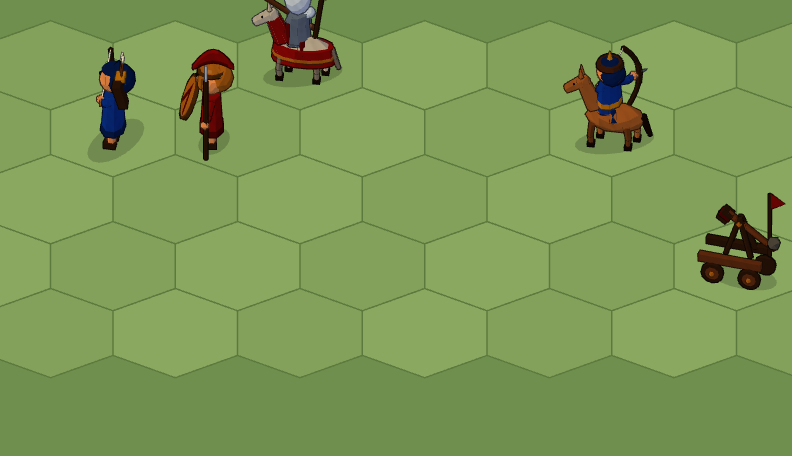
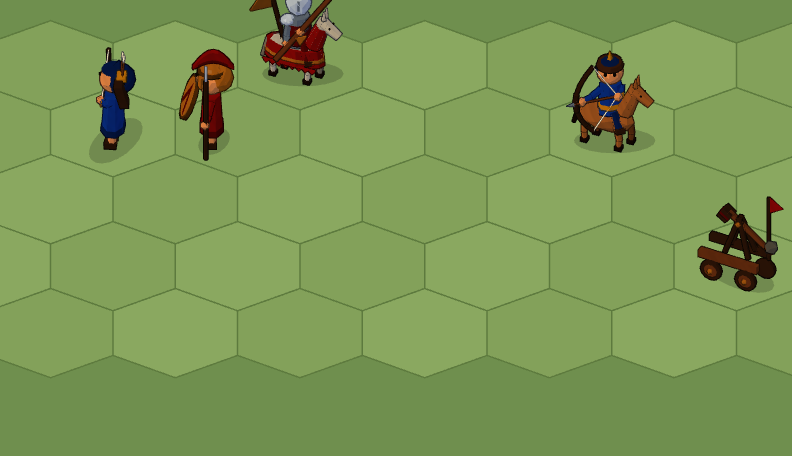
Docs: 3D facing review fixes, light before and after stills, clip regenerated

diff --git a/scripts/facing3d/sheet.ts b/scripts/facing3d/sheet.ts
@@ -178,10 +178,46 @@ function clip(scale = 2.4): Clip {
   };
 }
 
+/**
+ * The light on turned pieces, with the figures' normals in world space (as shipped) or in object space (as before
+ * facing): falls mid-tip, a trebuchet mid-swing, and the same trebuchet turned away mid-swing.
+ */
+function normals(world: boolean, scale = 3): void {
+  size({ w: Math.round(330 * scale), h: Math.round(110 * scale), scale, cx: 120, cy: -10 });
+  const g = ground.getContext('2d')!;
+  g.fillStyle = '#6f8f4e'; g.fillRect(0, 0, view.w, view.h);
+  for (const x of [0, 80, 160, 240]) hex(g, x, 0, '#8aa860', '#5d7a3e');
+  units.setUnits([
+    { id: 1, type: 'catapult', look: look('spartans'), hero: false, x: 160, y: 0, alpha: 1, hunkered: false },
+    { id: 2, type: 'catapult', look: look('spartans'), hero: false, x: 240, y: 0, alpha: 1, hunkered: false },
+  ], 0);
+  units.aim(2, 240, -60, 0);
+  units.tick(1000, 0);
+  units.pose(new Map([[1, { x: 160, y: 0, lunge: 0.2 }], [2, { x: 240, y: 0, lunge: 0.2 }]]), [
+    { key: 'a', type: 'hoplite', look: look('spartans'), x: 0, y: 0, angle: 0.9, alpha: 1 },
+    { key: 'b', type: 'knight', look: look('mongols'), x: 80, y: 0, angle: 0.6, alpha: 1 },
+  ]);
+  units.tick(1100, 0);
+  let changed = 0;
+  units.extras.parent?.traverse((o) => {
+    const m = (o as { material?: { defines?: Record<string, string>; needsUpdate: boolean } }).material;
+    if (m?.defines === undefined) return;
+    const has = 'WORLD_NORMAL' in m.defines;
+    if (has === world) return;
+    if (world) m.defines.WORLD_NORMAL = ''; else delete m.defines.WORLD_NORMAL;
+    m.needsUpdate = true;
+    changed++;
+  });
+  document.body.dataset.changed = String(changed);
+  label(world ? 'world normals (now)' : 'object normals (before)', 120, -50);
+  draw();
+}
+
 let current: Clip | null = null;
 Object.assign(window, {
   facingSheet: (rows: Row[], scale?: number) => sheet(rows, scale),
   facingClip: (scale?: number) => { current = clip(scale); return current.length; },
   facingFrame: (t: number) => current?.frame(t),
+  facingNormals: (world: boolean) => normals(world),
 });
 document.body.dataset.ready = '1';

diff --git a/scripts/facing3d-shots.ts b/scripts/facing3d-shots.ts
@@ -48,6 +48,13 @@ try {
   await page.evaluate((r) => (window as unknown as { facingSheet(rows: unknown[], s: number): void }).facingSheet(r, 1.3), all);
   await shoot('facing-all-types.png');
 
+  // The light on turned pieces, before and after the figures' normals went to world space.
+  for (const world of [false, true]) {
+    await page.evaluate((w) => (window as unknown as { facingNormals(w: boolean): void }).facingNormals(w), world);
+    await shoot(`normals-${world ? 'world' : 'object'}.png`);
+    console.log('materials switched', await page.evaluate(() => document.body.dataset.changed));
+  }
+
   // The clip, frame by frame at 25 frames a second.
   const frames = mkdtempSync(join(tmpdir(), 'facing3d-'));
   const length = await page.evaluate(() => (window as unknown as { facingClip(s: number): number }).facingClip(2.4));

diff --git a/docs/superpowers/plans/2026-11-24-facing3d-report.md b/docs/superpowers/plans/2026-11-24-facing3d-report.md
@@ -9,13 +9,22 @@ to that when hunkered, but when moving or attacking they should face the correct
   three-quarter view every figure is built in (unchanged from 0.5.3).
 - **Moves** (a slide, and also a lure or an advance, which move a unit the same way): turns to face the way it went,
   over 160 ms, during the 180 ms slide. The board slides a unit in one straight line from its old tile to its new
-  one, so a multi-step path gives one facing, along that line. It keeps the facing after it stops, and when it is
+  one, so a multi-step path gives one facing, along that line. Facing the last step instead is not possible on the
+  UI side: the move action is only a destination, the `moved` event carries only `from` and `to`, and the engine
+  exposes `reachable` but no path, so the route the unit took is not known. It keeps the facing after it stops, and when it is
   rebuilt dimmed because it is now spent.
-- **Attacks**: turns to face its target over 120 ms, timed to be round when its lunge starts (an attack later in a
-  chain waits for its own lunge), and keeps that facing. The unit attacked is not turned.
+- **Attacks**: turns to face its target over 120 ms, timed to be round when its lunge starts, and keeps that facing.
+  The unit attacked is not turned. A chain of attacks in one action faces each target in order: the turns are
+  queued, each starting when the one before is round (lunges 120 ms apart, so each later target is faced up to
+  120 ms after its lunge starts). The aim is taken from the tile the unit lunged from, so an attack followed by an
+  advance aims right (in this game an advance goes into the target's tile, so the slide and the lunge face the same
+  way anyway). A move or a hunker drops any aims still waiting.
 - **Hunkers**: turns back to the rest facing over 160 ms.
-- Nothing else changes a facing: selection, spent, a new turn, being attacked. A reload, or leaving the scene (fog)
-  and coming back, starts at rest again.
+- Nothing else changes a facing: selection, spent, a new turn, being attacked.
+- **Out of sight and back**: a unit that leaves the scene (fog) is remembered by id with its last facing and is shown
+  that way when seen again, even if it moved meanwhile (where it went is not known, so it is not turned for that: the
+  simpler choice). Units that die are forgotten (the action's falls carry their ids), and the memory goes with the
+  board (a reload, or the option toggled, starts every unit at rest).
 - **Falls**: a unit that dies falls the way it was facing (the fall figure picks up its last facing by look and tile).
 - **Reduced motion**: every turn is made at once.
 - Applies to every unit type, both factions, heroes and champions, and to the AI's and an online opponent's actions:
@@ -37,13 +46,16 @@ to that when hunkered, but when moving or attacking they should face the correct
     pennant is at the back), so that side leads and aims.
   - A facing is a yaw from the rest pose (0 at rest). A turn eases (smoothstep) from wherever the figure is to the
     new yaw the short way round; a turn can wait to start (the attack timing).
+- `facing.ts` also holds the queue: a facing is the turn under way plus turns waiting their time (`queueTurn`,
+  `settle`, `turnNow`).
 - `units3d.ts` keeps a facing per unit id (it survives a rebuild for a new look or dim), detects a move as a unit on
   a new point in `setUnits`, a hunker as `hunkered` going from false to true, and takes attacks through a new
-  `aim(id, x, y, now, lungeAt)`. `turning(now)` says whether frames must go on being drawn. Drawing turns the body
+  `aim(id, x, y, now, lungeAt, from)`; `forget(ids)` drops the remembered facing of units that died. `turning(now)` says whether frames must go on being drawn. Drawing turns the body
   group about the feet: body = tilt (in the screen plane, as before) x yaw (facing plus the trebuchet's idle aim).
 - `GlUnit` gains `hunkered` (and its key, so a hunker reaches `setUnits`; the figure is not rebuilt for it).
-- `Board.tsx` gains an optional `attacks` prop (`{ seq, list: { unit, toward, delay }[] }`); `Match.tsx` passes the
-  lunges of the action being shown. Board calls `aim` once per seq, after `setUnits`. Board's follow loop (the one
+- `Board.tsx` gains an optional `attacks` prop (`{ seq, list: { unit, from, toward, delay }[], fallen }`);
+  `Match.tsx` passes the lunges and the falls of the action being shown. The lunge and fall effects gained `from`
+  and `unit` (UI types only; the svg effects use neither). Board calls `aim` once per seq, after `setUnits`. Board's follow loop (the one
   that tracks slides and lunges) also runs while a figure is turning, so a hunker's turn, which has no svg animation,
   is drawn smoothly; it stops when the turn ends.
 
@@ -69,6 +81,13 @@ Two things had to follow the turn:
 The trebuchet's arm and stone are children of the body, so its swing and idle aim play in its new facing (tested
 and in the clip: it throws up the screen with its back to the viewer).
 
+### The light on falls, the trebuchet arm and idle tilt
+
+`normals-object.png` (object normals, as before) and `normals-world.png` (world normals, as now) show a hoplite and a
+knight mid-fall, the trebuchet mid-swing, and the trebuchet turned away mid-swing. A difference image of the two
+shows changes only along a few band edges: the toon light has three bands, so a tip of up to a radian moves a band
+edge here and there and nothing else. The idle tilt is a few hundredths of a radian, below what the bands show. Kept.
+
 ## Battery and performance
 
 - The ambient loop is unchanged (20 fps cap, rest after 20 s quiet, paused when covered or hidden, no double draws).
@@ -89,6 +108,7 @@ then on it, exactly as a move reaches `units3d`; the arrow shows the step.
   `facing-horseArcher.png`, `facing-trebuchet.png`, `facing-hero.png` (King's Guard with pennant),
   `facing-champion.png` (Khan's Guard): rest, then moves E, SE, SW, W, NW, NE.
 - `facing-all-types.png`: all 17 types, rest plus the six moves.
+- `normals-object.png`, `normals-world.png`: the light before and after (see above).
 - `facing-clip.gif` (real pace, 25 fps) and its stills `clip-0280ms.png` to `clip-4280ms.png`: a hoplite walks E,
   SE, NE, NW (its back to us), attacks the archer to its W (turns to a profile, lunges), then hunkers back to rest;
   the trebuchet turns up the screen and throws; the knight rides down toward the viewer.
@@ -101,12 +121,16 @@ board (status plates, real terrain) was not captured for this change.
 - `units/facing.test.ts`: headings (down, up, sideways, none); every type's move and aim fronts land along each of
   the six hex directions on screen; the six steps at 30, 90, 150 degrees; rest is no turn; fronts of the archer,
   horse archer, knight; wrap; eased turn with no snap within 120 to 200 ms; short way round both ways; a new turn
-  starts where the last one got to; a delayed turn; instant with no time.
+  starts where the last one got to; a delayed turn; instant with no time; queued turns run in order (and the short way),
+  a later aim waits for a turn under way, a turn now drops what waits, reduced motion still waits for each moment;
+  a held facing.
 - `units/units3d.test.ts` (new `facing` block): rest when first seen and held; a move turns, eased, and the facing
   survives a dimmed rebuild; down faces the viewer, up away, sideways a profile, for a footman, a rider, the
   trebuchet and a hero; the drawn front points along the move on screen; an attack waits for its lunge then faces
   the target, the target stays; the archer aims side on; hunker returns to rest, staying hunkered or being spent does
-  not turn; leaving and coming back is rest; reduced motion turns at once; the trebuchet swings and idles in a new
+  not turn; out of sight and back keeps the facing, a forgotten (dead) id and a fresh board start at rest; a chain
+  of three aims sent together faces each target in order and keeps the last; an attack then advance aims from where
+  it lunged; a move drops waiting aims; reduced motion turns at once; the trebuchet swings and idles in a new
   facing; the shadow turns with the figure; a fall keeps the facing.
 
 Results (2026-11-24, on this branch):
@@ -128,3 +152,13 @@ Results (2026-11-24, on this branch):
 - A lured unit (pulled by an enemy) faces the way it was pulled, as any move does.
 - The heading uses the board's own tilt (SQUASH): if the camera ever gets a different tilt from the board's, this is
   the one constant to follow.
+
+## Review fixes (second round)
+
+- Chained aims queue instead of overwriting each other (above).
+- Facing kept through fog, forgotten on death (above).
+- Multi-hex moves: left as one straight-line facing; the path is not available on the UI side (above).
+- World normals: checked with stills, kept (above).
+- Results after the fixes: `npx tsc -b` clean; `npm run lint` no warnings; `npx vitest run src/ui/terrain3d/units
+  src/ui/board src/ui/screens` 186 passed (all of `src/ui`: 355 passed); `GITHUB_PAGES_BASE=/warbanners/ npx vite
+  build` then `npm run test:browser` under flock: AI suite 6 passed, the rest 50 passed and 2 skipped (online).
